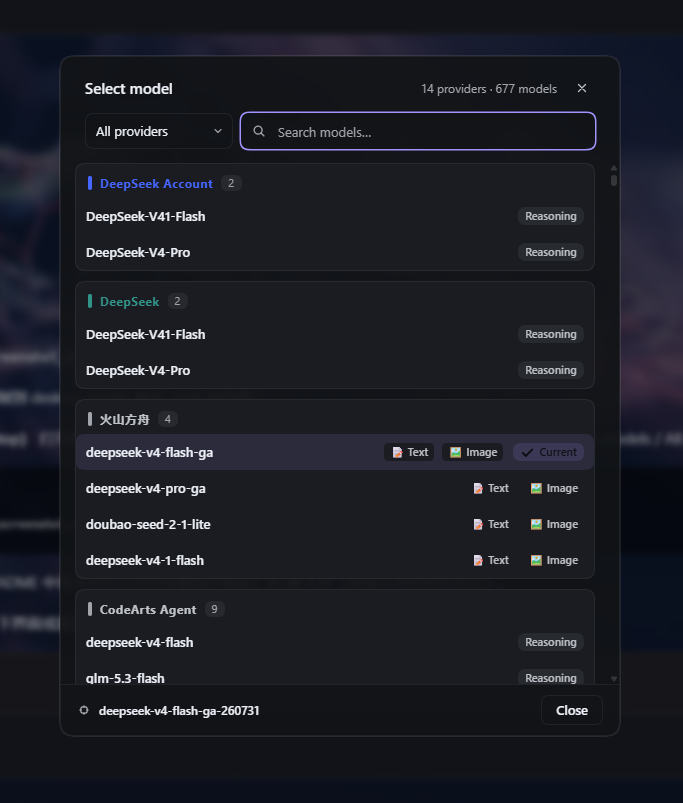
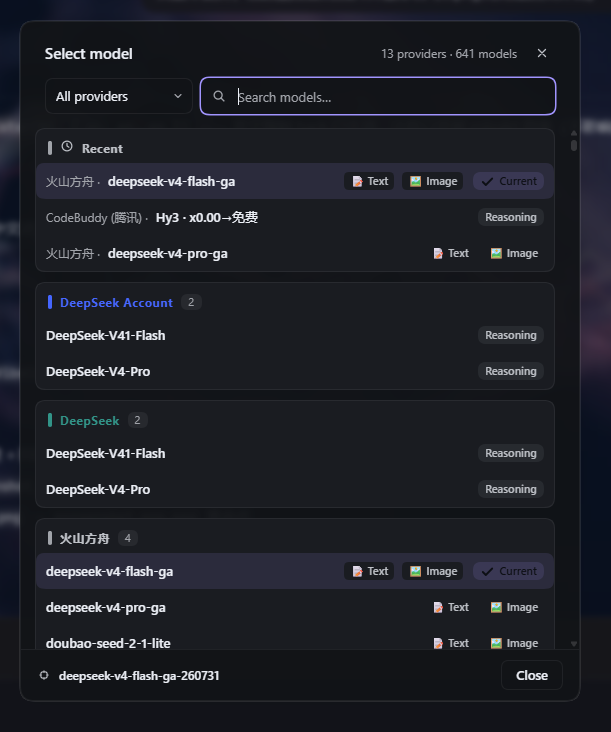
docs: refresh screenshots for MRU and effort picker

diff --git a/README.en.md b/README.en.md
@@ -24,6 +24,9 @@ the other updates instantly").
 - **Selection window** (centered modal, themed with CSS variables, adapts to
   light/dark themes):
   - **Header**: title + provider/model count + close;
+  - **Recently used**: models you picked before (up to 8, auto-recorded,
+    persisted locally), each row showing **`provider · model`** (e.g.
+    `Volcengine · deepseek-v4-flash-ga`) — one click switches back;
   - **Provider filter**: custom dropdown to the left of the search box (all
     providers / a single provider), rendered with theme colors (no native
     `<select>`, avoiding a glaring system panel under dark themes);
@@ -32,7 +35,8 @@ the other updates instantly").
   - **List**: grouped by provider (DeepSeek account / official first), groups with
     a color bar and a count badge; each row shows the **full model name** +
     **capability tags** + a "reasoning" badge + a "current" badge + a selection check;
-  - **Footer**: current model summary + close button;
+    large lists render lazily on scroll (opens faster);
+  - **Footer**: current model summary + **reasoning-effort picker** + close button;
   - **States**: loading (spinner), load failure (retry), per-provider load failure
     (individual messages), current model no longer routable (warning), session busy
     (dedicated copy).
